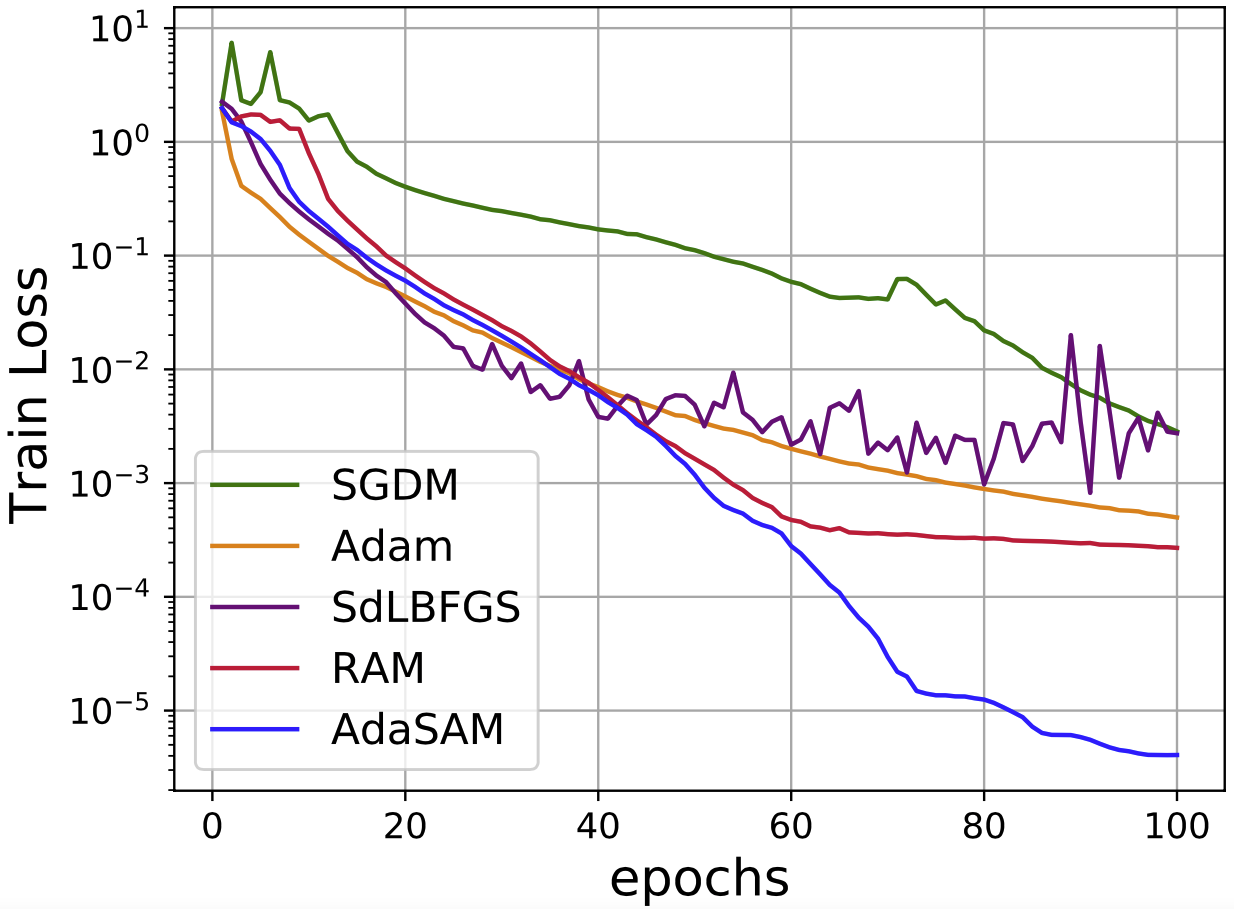
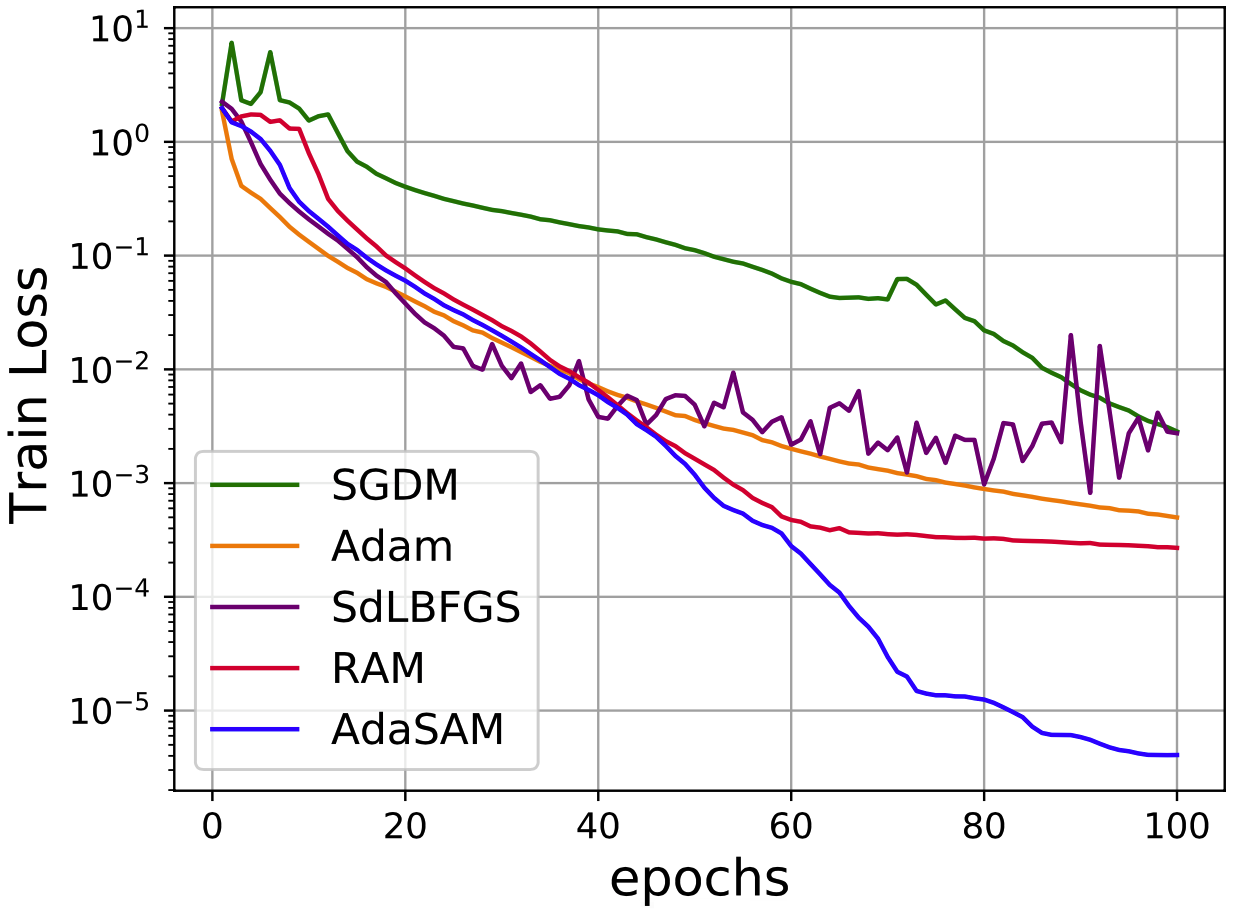
SAM

diff --git a/_posts/2021-10-30-stochastic-anderson-mixing.md b/_posts/2021-10-30-stochastic-anderson-mixing.md
@@ -63,7 +63,7 @@ The preconditioned versions (RMSprop-AdaSAM and Adagrad-AdaSAM) also converge fa
 We trained ResNet, WideResNet (abbreviated as WResNet), ResNeXt, and DenseNet on CIFAR10 and CIFAR100. The results demonstrate the superiority of our method.
 
 ### PTB
-<div align="center"><img src="{{ site.url }}/images/stochastic-anderson-mixing/sam_ptb.png" width=450></div>
+<div align="center"><img src="{{ site.url }}/images/stochastic-anderson-mixing/sam_ptb.png" width=470></div>
 We also applied our method to training a 3-layer LSTM on PTB. The results show that our method (pAdaSAM) also outperforms other optimizers.
 
 ## Conclusion
